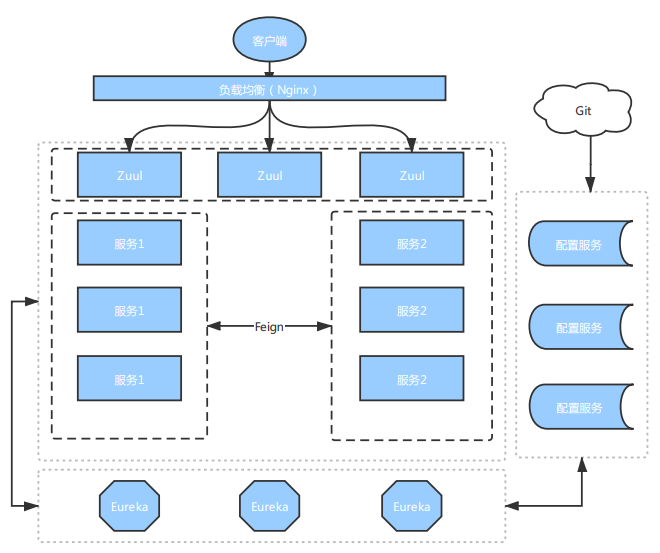
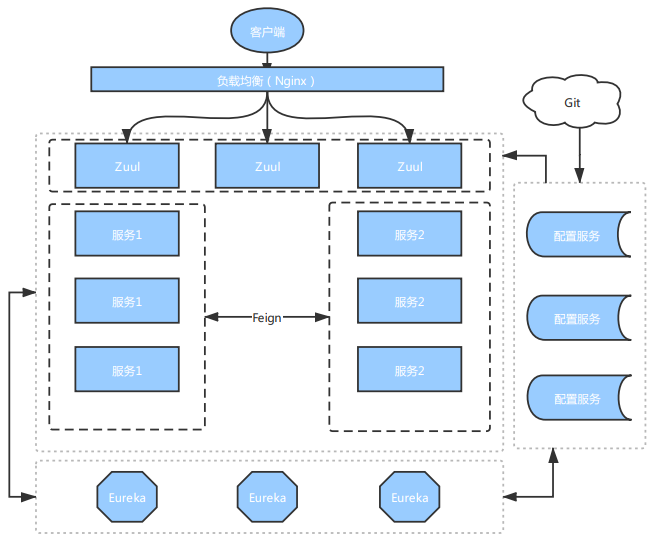
:bento: Adding config server

diff --git a/spring-cloud-netflix-zuul/src/main/java/com/xianyuli/spring/cloud/zuul/provider/MyFallbackProvider.java b/spring-cloud-netflix-zuul/src/main/java/com/xianyuli/spring/cloud/zuul/provider/MyFallbackProvider.java
@@ -1,0 +1,73 @@
+package com.xianyuli.spring.cloud.zuul.provider;
+
+import com.netflix.hystrix.exception.HystrixTimeoutException;
+import org.springframework.cloud.netflix.zuul.filters.route.FallbackProvider;
+import org.springframework.http.HttpHeaders;
+import org.springframework.http.HttpStatus;
+import org.springframework.http.MediaType;
+import org.springframework.http.client.ClientHttpResponse;
+import org.springframework.stereotype.Component;
+
+import java.io.ByteArrayInputStream;
+import java.io.IOException;
+import java.io.InputStream;
+import java.nio.charset.Charset;
+
+@Component
+public class MyFallbackProvider implements FallbackProvider {
+    @Override
+    public String getRoute() {
+        // 表明是为哪个微服务提供回退，*表示为所有微服务提供回退
+        return "*";
+    }
+
+    @Override
+    public ClientHttpResponse fallbackResponse(String route, Throwable cause) {
+        if (cause instanceof HystrixTimeoutException) {
+            return response(HttpStatus.GATEWAY_TIMEOUT);
+        } else {
+            return this.fallbackResponse();
+        }
+    }
+
+    public ClientHttpResponse fallbackResponse() {
+        return this.response(HttpStatus.INTERNAL_SERVER_ERROR);
+    }
+
+    private ClientHttpResponse response(final HttpStatus status) {
+        return new ClientHttpResponse() {
+            @Override
+            public HttpStatus getStatusCode() throws IOException {
+                return status;
+            }
+
+            @Override
+            public int getRawStatusCode() throws IOException {
+                return status.value();
+            }
+
+            @Override
+            public String getStatusText() throws IOException {
+                return status.getReasonPhrase();
+            }
+
+            @Override
+            public void close() {
+            }
+
+            @Override
+            public InputStream getBody() throws IOException {
+                return new ByteArrayInputStream("服务不可用，请稍后再试。".getBytes());
+            }
+
+            @Override
+            public HttpHeaders getHeaders() {
+                // headers设定
+                HttpHeaders headers = new HttpHeaders();
+                MediaType mt = new MediaType("application", "json", Charset.forName("UTF-8"));
+                headers.setContentType(mt);
+                return headers;
+            }
+        };
+    }
+}

diff --git a/spring-cloud-netflix-zuul/src/main/java/com/xianyuli/spring/cloud/zuul/filter/MyFilter.java b/spring-cloud-netflix-zuul/src/main/java/com/xianyuli/spring/cloud/zuul/filter/MyFilter.java
@@ -1,0 +1,50 @@
+package com.xianyuli.spring.cloud.zuul.filter;
+
+import com.netflix.zuul.ZuulFilter;
+import com.netflix.zuul.context.RequestContext;
+import com.netflix.zuul.exception.ZuulException;
+import org.apache.commons.lang.StringUtils;
+import org.apache.http.entity.ContentType;
+import org.springframework.stereotype.Component;
+
+import javax.servlet.http.HttpServletRequest;
+import javax.servlet.http.HttpServletResponse;
+import java.io.IOException;
+
+@Component
+public class MyFilter extends ZuulFilter {
+    @Override
+    public String filterType() {
+        return "pre";
+    }
+
+    @Override
+    public int filterOrder() {
+        return 1;
+    }
+
+    @Override
+    public boolean shouldFilter() {
+        return true;
+    }
+
+    @Override
+    public Object run() throws ZuulException {
+        RequestContext requestContext = RequestContext.getCurrentContext();
+        HttpServletRequest request = requestContext.getRequest();
+        String token = request.getParameter("token");
+        if (StringUtils.isEmpty(token)) {
+            requestContext.setSendZuulResponse(false);
+            requestContext.setResponseStatusCode(401);
+            try {
+                HttpServletResponse response = requestContext.getResponse();
+                response.setContentType("text/html;charset=utf-8;");
+                response.getWriter().write("非法请求");
+            } catch (IOException e) {
+                e.printStackTrace();
+            }
+        }
+
+        return null;
+    }
+}

diff --git a/spring-cloud-config/src/main/java/com/xianyuli/spring/cloud/config/ConfigApplication.java b/spring-cloud-config/src/main/java/com/xianyuli/spring/cloud/config/ConfigApplication.java
@@ -1,0 +1,17 @@
+package com.xianyuli.spring.cloud.config;
+
+import org.springframework.boot.SpringApplication;
+import org.springframework.boot.autoconfigure.SpringBootApplication;
+import org.springframework.cloud.config.server.EnableConfigServer;
+import org.springframework.cloud.netflix.eureka.EnableEurekaClient;
+
+@SpringBootApplication
+@EnableConfigServer
+@EnableEurekaClient
+public class ConfigApplication {
+
+    public static void main(String[] args) {
+        SpringApplication.run(ConfigApplication.class, args);
+    }
+
+}

diff --git a/spring-cloud-netflix-zuul/src/main/java/com/xianyuli/spring/cloud/zuul/ZuulApplication.java b/spring-cloud-netflix-zuul/src/main/java/com/xianyuli/spring/cloud/zuul/ZuulApplication.java
@@ -1,0 +1,15 @@
+package com.xianyuli.spring.cloud.zuul;
+
+import org.springframework.boot.SpringApplication;
+import org.springframework.boot.autoconfigure.SpringBootApplication;
+import org.springframework.cloud.netflix.zuul.EnableZuulProxy;
+
+@SpringBootApplication
+@EnableZuulProxy
+public class ZuulApplication {
+
+    public static void main(String[] args) {
+        SpringApplication.run(ZuulApplication.class, args);
+    }
+
+}

diff --git a/spring-cloud-netflix-eureka/src/main/java/com/xianyuli/spring/cloud/eureka/EurekaApplication.java b/spring-cloud-netflix-eureka/src/main/java/com/xianyuli/spring/cloud/eureka/EurekaApplication.java
@@ -6,10 +6,10 @@ import org.springframework.cloud.netflix.eureka.server.EnableEurekaServer;
 
 @SpringBootApplication
 @EnableEurekaServer
-public class ErukaApplication {
+public class EurekaApplication {
 
     public static void main(String[] args) {
-        SpringApplication.run(ErukaApplication.class, args);
+        SpringApplication.run(EurekaApplication.class, args);
     }
 
 }

diff --git a/README.md b/README.md
@@ -6,14 +6,14 @@
 让我们简单的来学一下`SpringCloud Netflix`：  
 在微服务架构中，需要几个基础的服务治理组件，包括注册与发现，服务消费，负载均衡，熔断器，智能路由，配置管理等；其对应`Spring-Cloud-Netflix`中的组件与技术:  
 
-| 组件 | Spring-Cloud-Netflix    |
+| 组件 | Spring-Cloud-Netflix |
 | :------ | :------ |
-| 注册与发现 | Spring-Cloud-Eureka |
-| 服务消费 | Spring-Cloud-Feign |
-| 负载均衡 | Spring-Cloud-Ribbon |
-| 熔断器 | Spring-Cloud-Hystrix |
-| 智能路由 | Spring-Cloud-Zuul |
-| 配置管理 | Spring-Cloud-Config |
+| 注册与发现 | Spring-Cloud-Eureka  |
+| 服务消费   | Spring-Cloud-Feign   |
+| 负载均衡   | Spring-Cloud-Ribbon  |
+| 熔断器     | Spring-Cloud-Hystrix |
+| 智能路由   | Spring-Cloud-Zuul    |
+| 配置管理   | Spring-Cloud-Config  |
 #### 2.架构及其原理
 一个简单的微服务系统如下图：  
 ![](https://github.com/xianyuli/learning-spring-cloud-netflix/blob/master/screenshots/springcloudnetflix.png)
